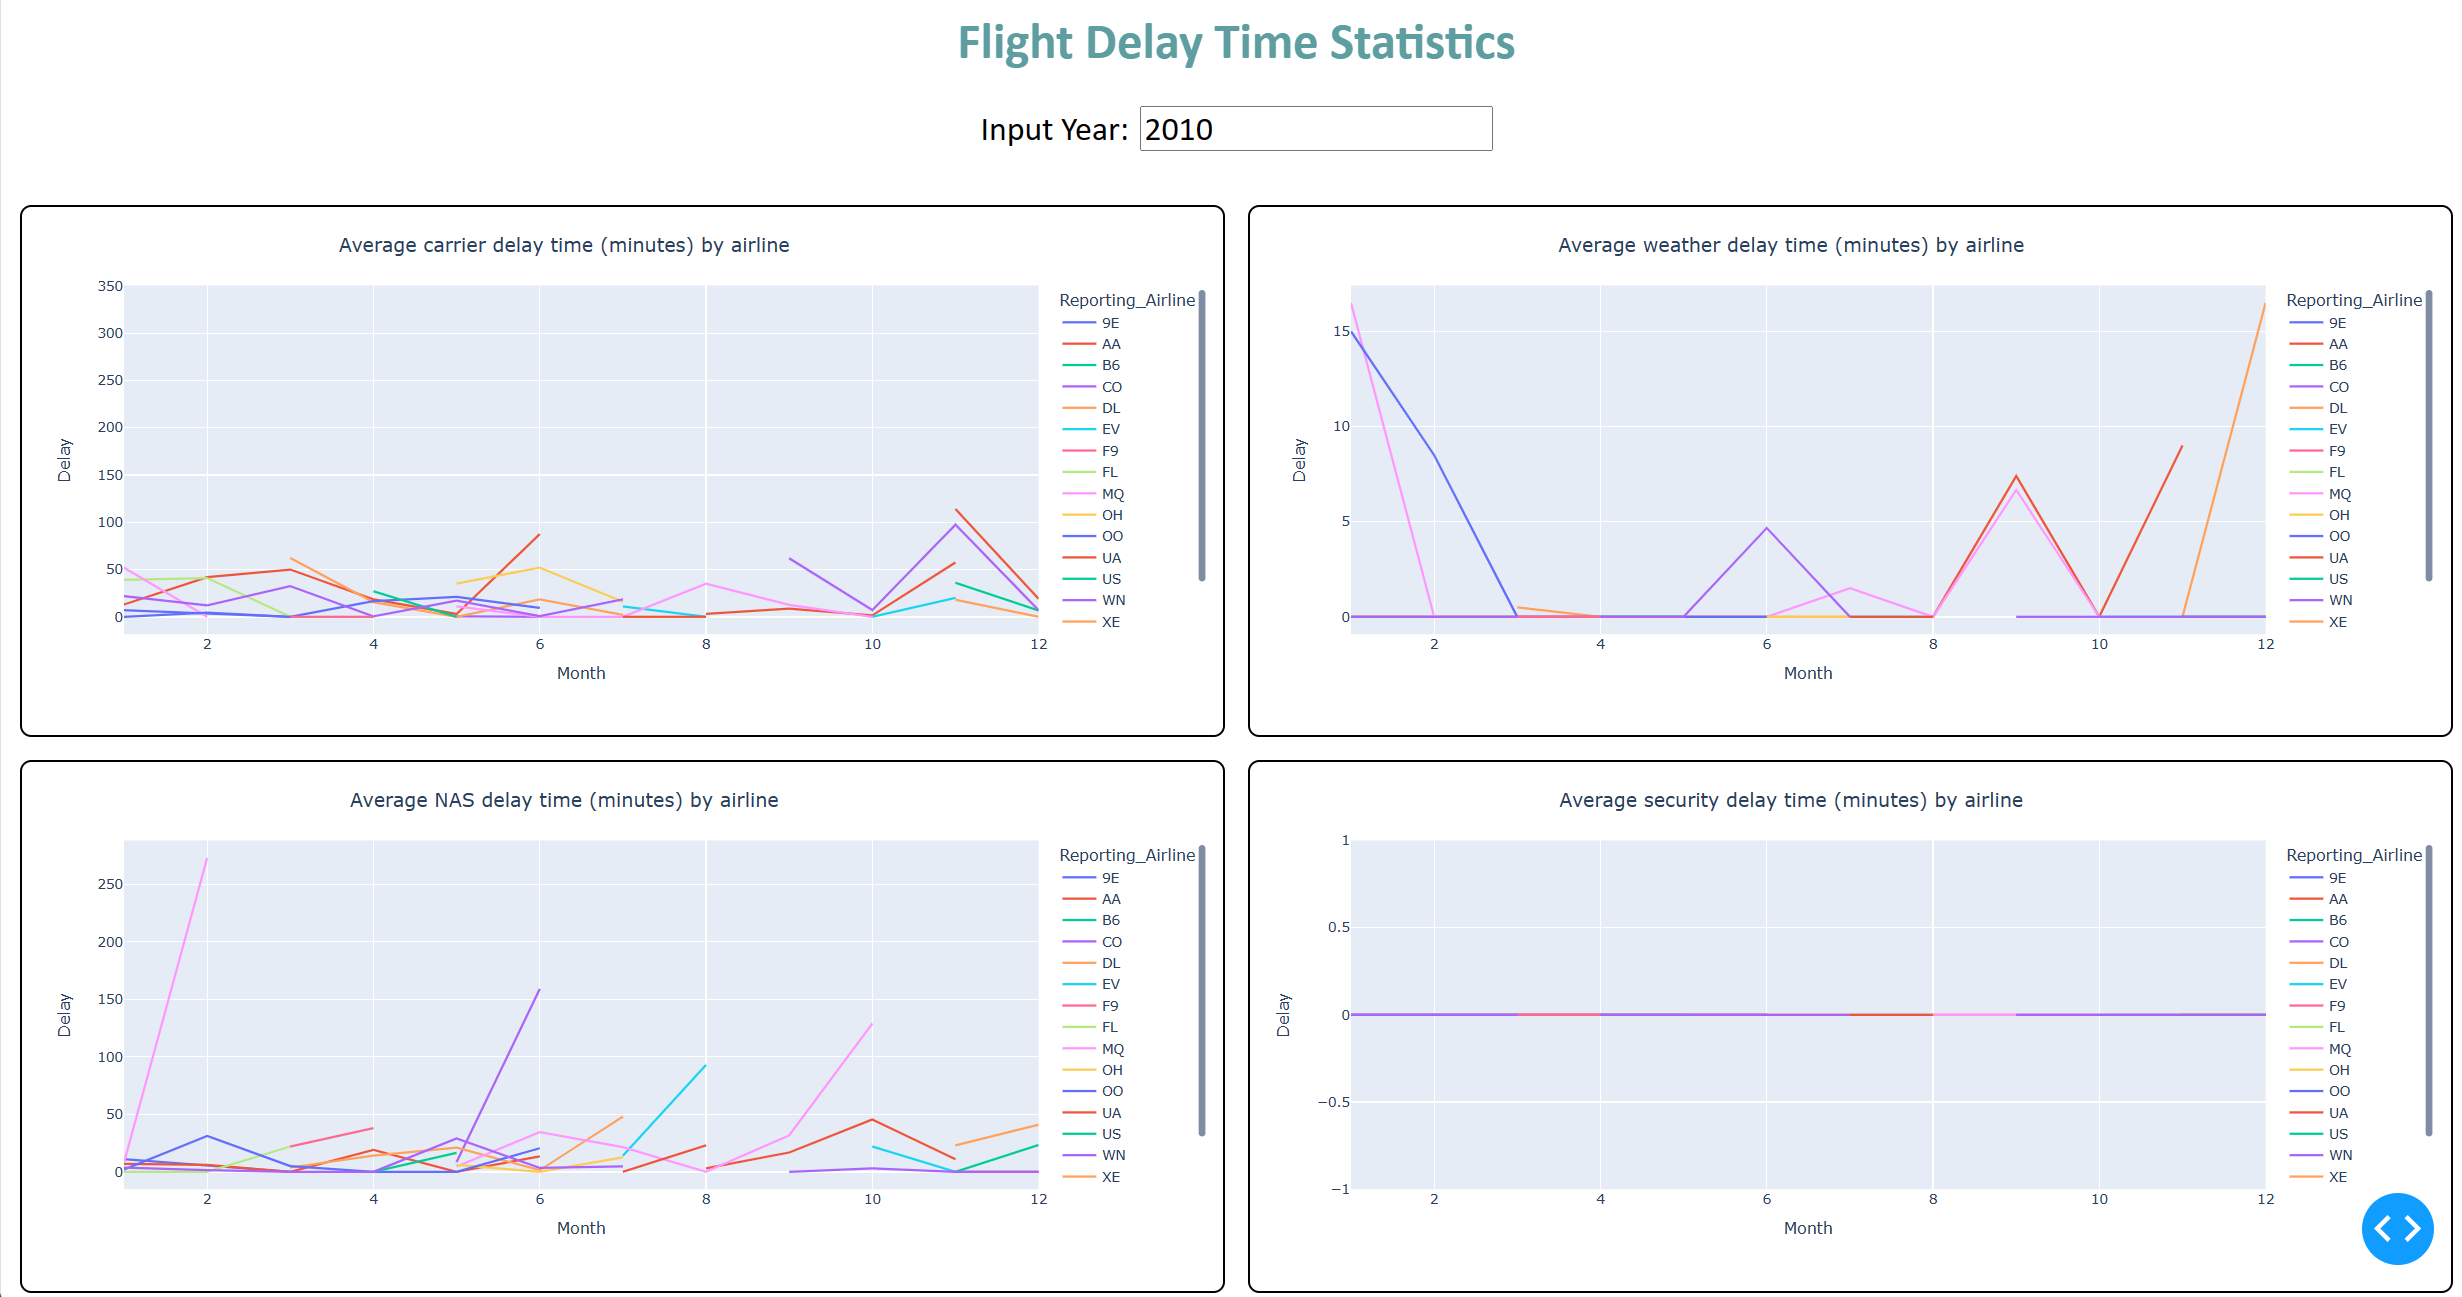
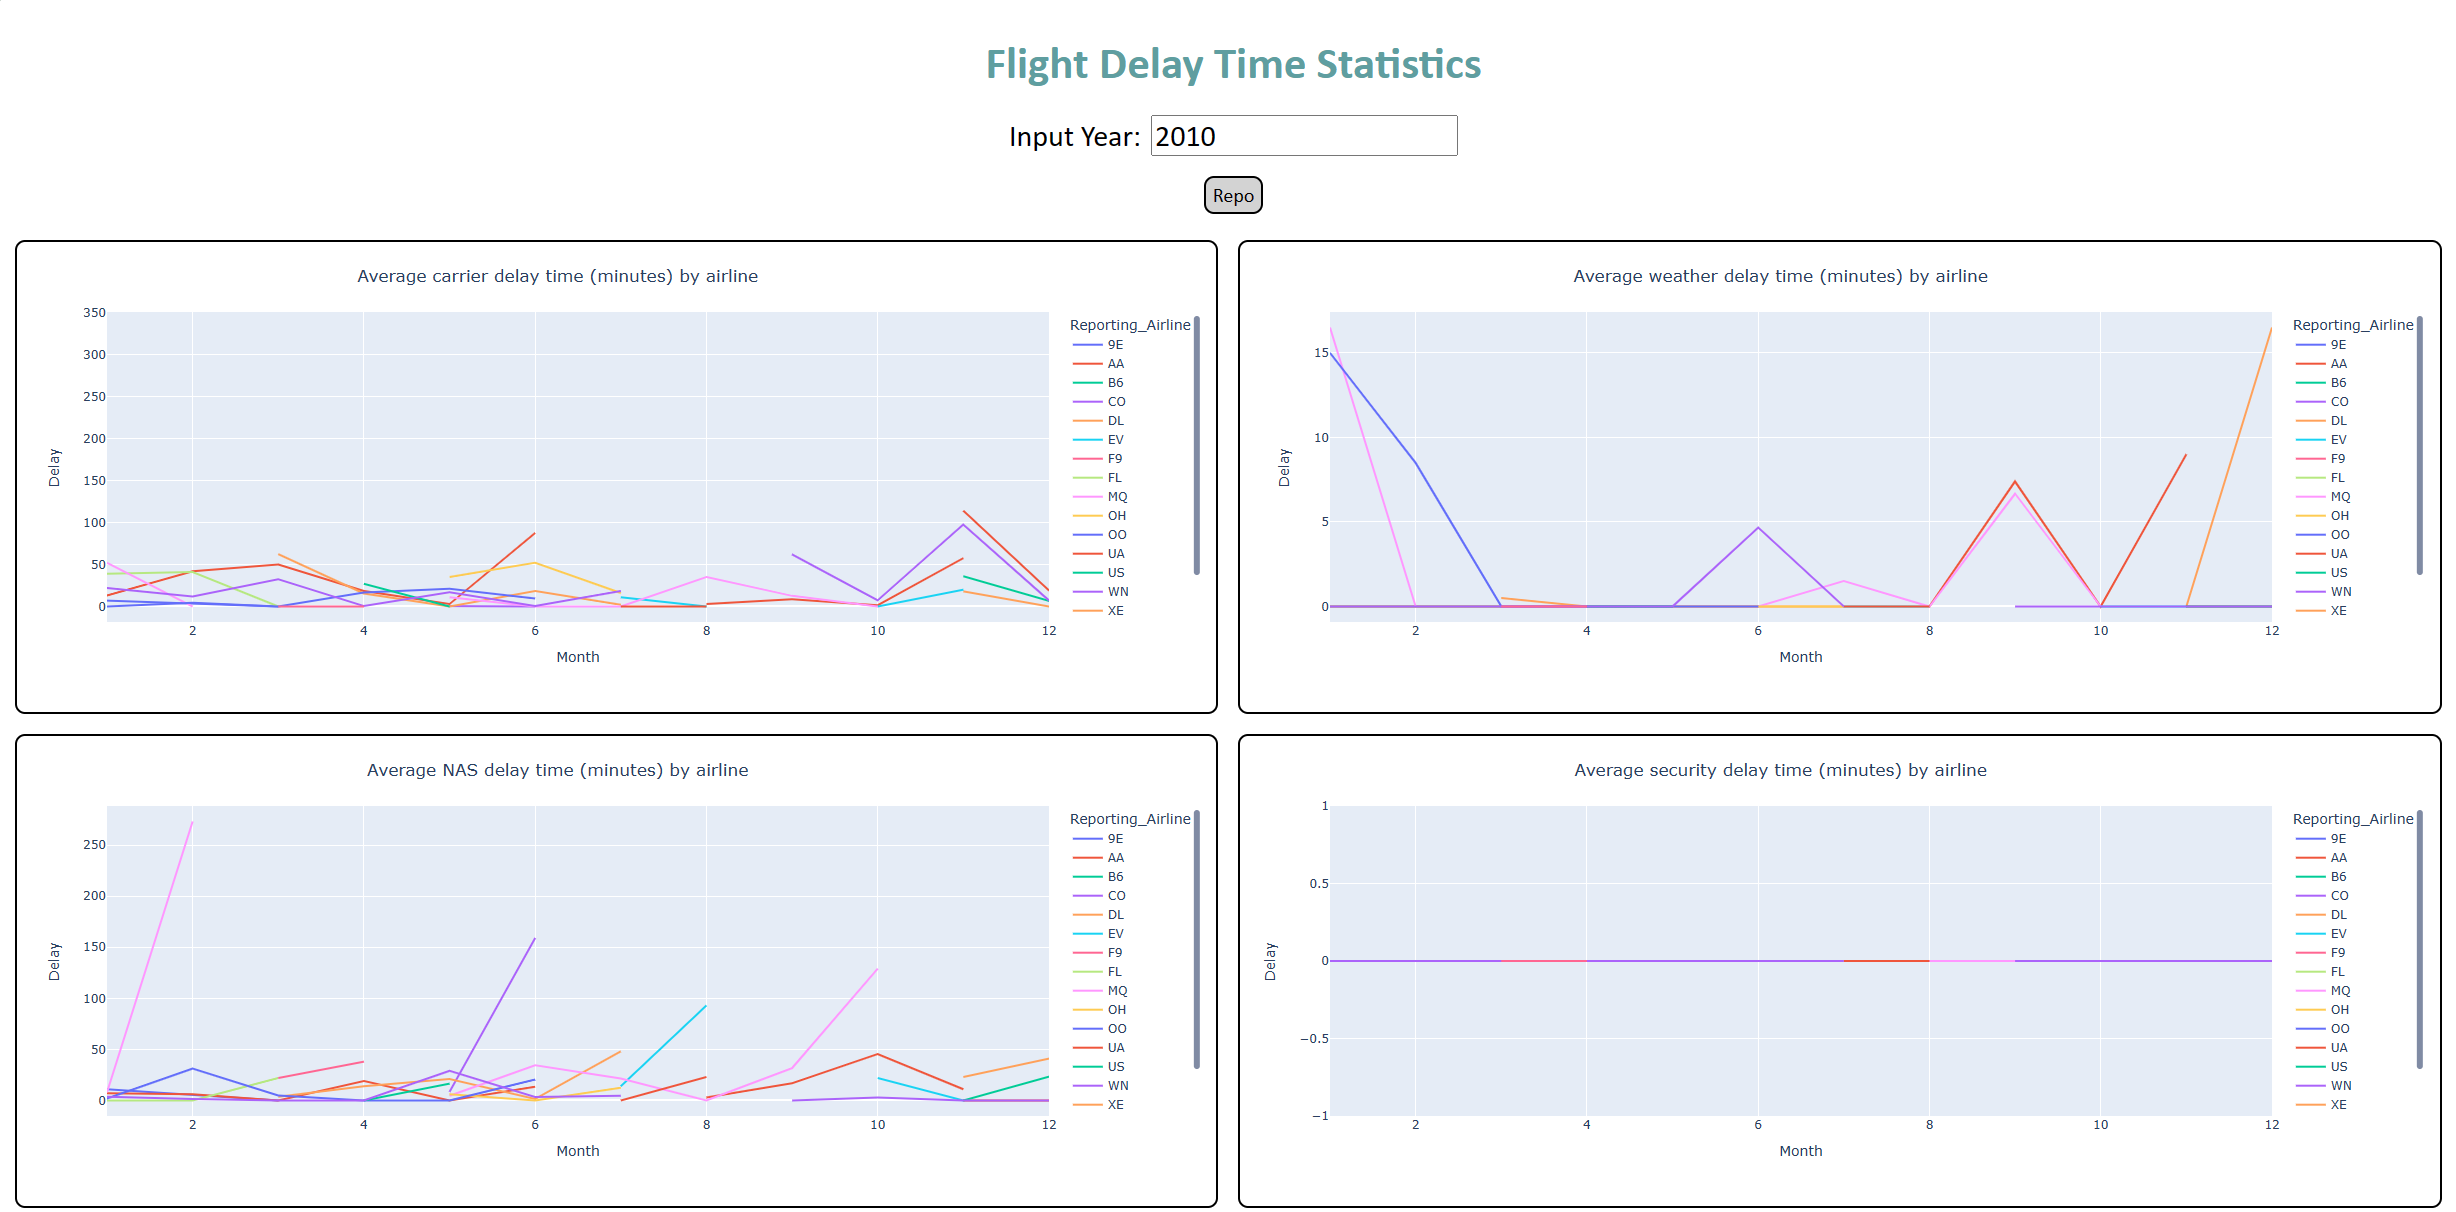
repositioned repo button

diff --git a/assets/style.css b/assets/style.css
@@ -2,7 +2,7 @@
 .btn {
   display: inline-block;
   text-align: center;
-  margin: 20px auto;
+  /* margin: 20px auto; */
   color:black;
   background-color: lightgray;
   border: 2px solid black;
@@ -19,4 +19,10 @@
 
 .btn:active {
   transform: translate(0, 3px); /* Move the button 10 pixels down on hover */
+}
+
+.divv{
+  display: flex;
+  justify-content: center;
+  margin: 20px 0px -20px 0px;
 }

diff --git a/flight_delay.py b/flight_delay.py
@@ -66,15 +66,11 @@ server= app.server
 app.layout = html.Div(children=[
     
     html.Div([
+
   # Title
     html.H1('Flight Delay Time Statistics',
     style={'textAlign': 'center', 'color': 'cadetblue', 'fontSize': 45, 'font-family': 'Calibri', 'marginBottom':'10px'}),
 
-    # Button
-    html.A(
-        'Repo',
-        href='https://github.com/CxLos/Flight_Delay_Statistics?tab=readme-ov-file',
-        className='btn')
         ], 
         style={'display': 'flex', 
           'flexDirection':'column',
@@ -83,21 +79,28 @@ app.layout = html.Div(children=[
 
   
     # Input box
-    html.Div(
-        [
+    html.Div([
             html.Span(
                 "Input Year: ",
-                style={'margin-left': '0px'}
-            ),
+                style={'margin-left': '0px'}),
+
             dcc.Input(
                 id='input-year',
                 value='2010',
                 type='number',
-                style={'height': '35px', 'font-size': 30, 'font-family': 'Calibri', 'margin-left': '10px'}
-            )
+                style={'height': '35px', 'font-size': 30, 'font-family': 'Calibri', 'margin-left': '10px'})
+                
         ],
-        style={'display': 'flex', 'justify-content': 'center', 'align-items': 'center', 'font-size': 30, 'font-family': 'Calibri', 'margin':'20px 0px -20px 0px'}
+        style={'display': 'flex', 'justify-content': 'center', 'align-items': 'center', 'font-size': 30, 'font-family': 'Calibri', 'margin':'15px 0px 0px 0px'}
     ),
+                
+    html.Div(className='divv', children=[ 
+                  # Button
+          html.A(
+              'Repo',
+              href='https://github.com/CxLos/Flight_Delay_Statistics?tab=readme-ov-file',
+              className='btn')
+                      ]),
 
     html.Br(),
     html.Br(),
@@ -196,7 +199,7 @@ def get_graph(entered_year):
 
 # Run the app
 if __name__ == '__main__':
-    app.run_server(debug=True)
+    app.run_server(debug=False)
 
 # Prints ------------------------------------------------------------------------------------------------
 
